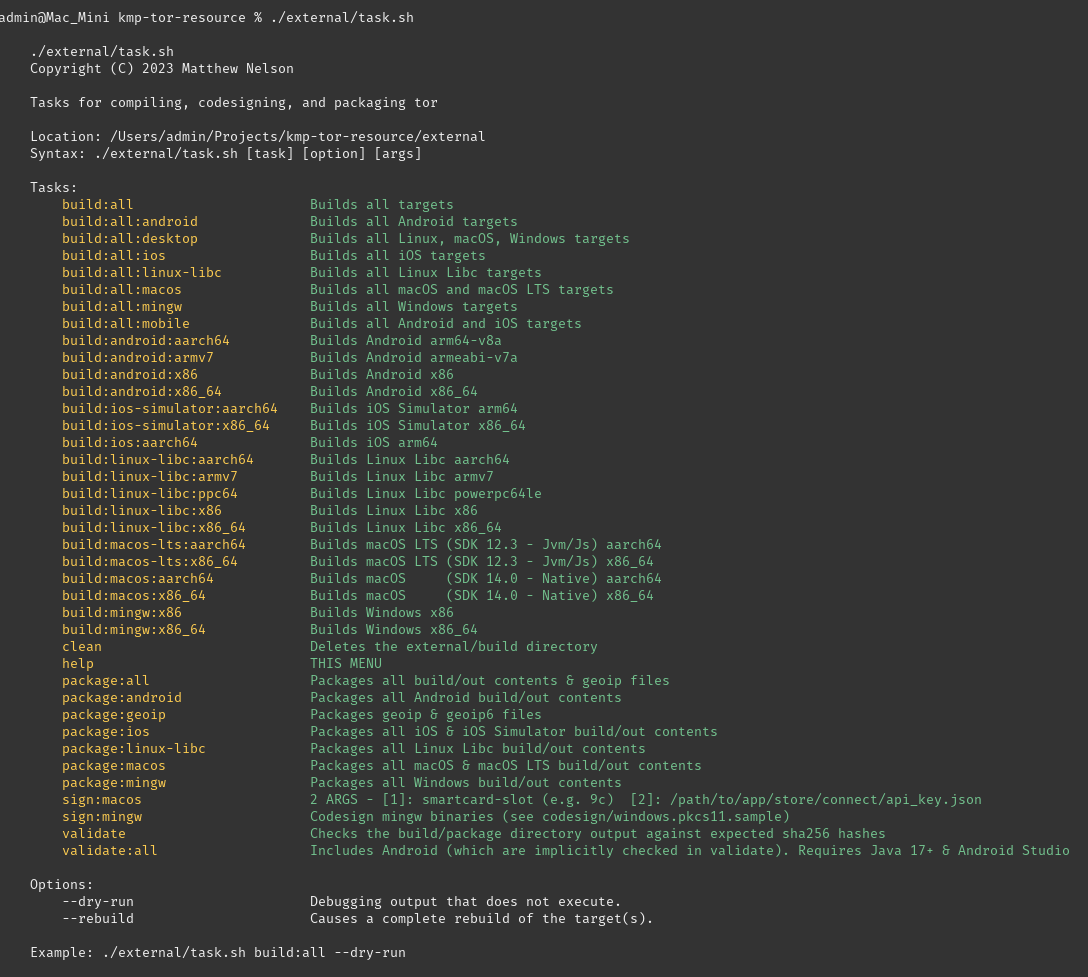
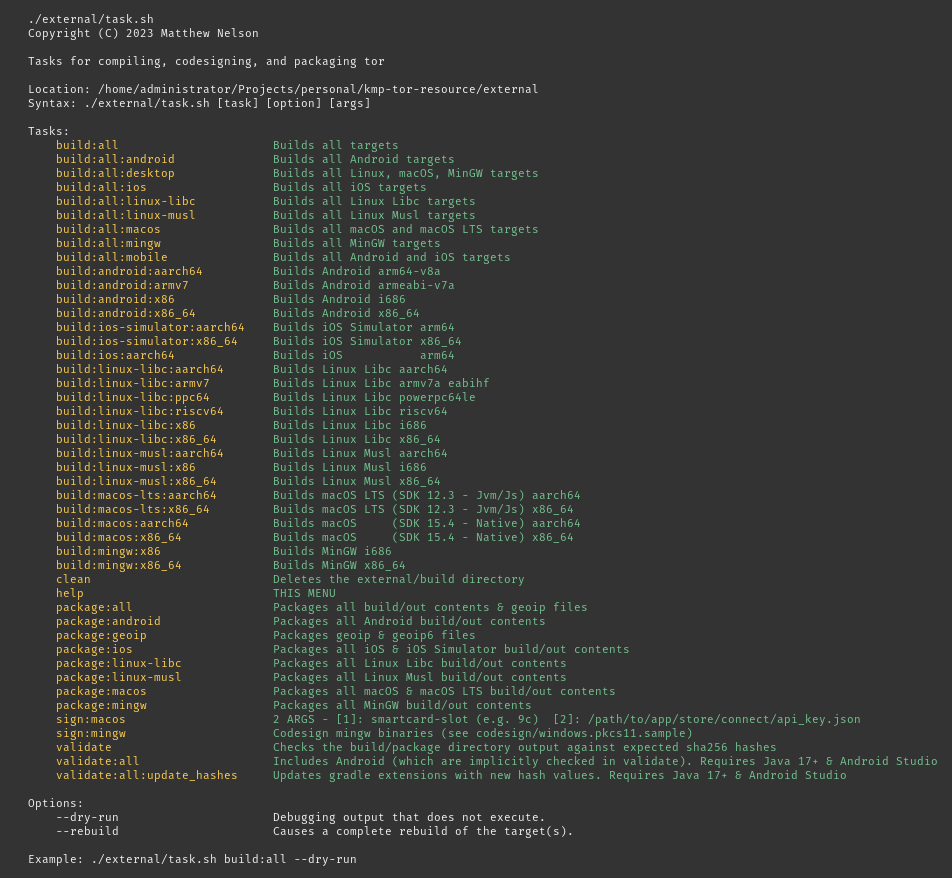
Update documentation

diff --git a/docs/DETERMINISTIC_BUILDS.md b/docs/DETERMINISTIC_BUILDS.md
@@ -10,10 +10,10 @@ script. The expected Sha256 hashes are provided by gradle extensions located in 
 <!-- TAG_VERSION -->
 ```
 git clone --branch 408.17.0 --depth 1 https://github.com/05nelsonm/kmp-tor-resource.git \
-&& cd kmp-tor-resource \
-&& ./external/task.sh build:all \
-&& ./external/task.sh package:all \
-&& ./external/task.sh validate
+  && cd kmp-tor-resource \
+  && ./external/task.sh build:all \
+  && ./external/task.sh package:all \
+  && ./external/task.sh validate
 ```
 
 ### Validate Compilations
@@ -23,12 +23,12 @@ git clone --branch 408.17.0 --depth 1 https://github.com/05nelsonm/kmp-tor-resou
         - If your machine is not `x86_64`, but your docker installation supports virtualization 
           of `linux/amd64` containers, things will still work but there will be significant overhead. 
           For example, `macOS` with `M` series chipsets build fine using rosetta virtualization, but 
-          may take upwards of 6 hours compared to 20-30 minutes.
+          may take upwards of 6x longer.
     - Bash
     - Git
     - Docker
     - Java 11+
-    - Approximately 15GB of available disk space
+    - Approximately 20GB of available disk space
 
 1) Clone the repository:
    ```shell
@@ -63,10 +63,72 @@ git clone --branch 408.17.0 --depth 1 https://github.com/05nelsonm/kmp-tor-resou
    - If you have Java 17+ and Android Studio installed, you can run task `validate:all` instead 
      which will include android in its checks.
 
-If the output of the error report files is blank, all built/packaged resources matched the 
+If the output of the error report files are empty, all built/packaged resources matched the 
 expected Sha256 hash values.
 
 Any error output is pretty self-explanatory; either the file didn't exist or hashes didn't 
 match what was expected for the given platform/architecture.
+
+<details>
+    <summary>Example error output</summary>
+
+```
+resource-compilation-exec-tor/android.err:
+
+resource-compilation-exec-tor-gpl/android.err:
+
+resource-compilation-lib-tor/android.err:
+
+resource-compilation-lib-tor-gpl/android.err:
+
+resource-exec-tor/jvm.err:
+resource-exec-tor/linuxArm64.err:
+resource-exec-tor/linuxX64.err:
+resource-exec-tor/macosArm64.err:
+resource-exec-tor/macosX64.err:
+resource-exec-tor/mingwX64.err:
+
+resource-exec-tor-gpl/jvm.err:
+resource-exec-tor-gpl/linuxArm64.err:
+resource-exec-tor-gpl/linuxX64.err:
+resource-exec-tor-gpl/macosArm64.err:
+resource-exec-tor-gpl/macosX64.err:
+resource-exec-tor-gpl/mingwX64.err:
+
+resource-frameworks-gradle-plugin/jvm.err:
+
+resource-geoip/jvm-geoip.err:
+ERROR[ Resource does not exist: external/build/package/resource-geoip/src/jvmMain/resources/io/matthewnelson/kmp/tor/resource/geoip/geoip.gz ]
+resource-geoip/native.err:
+
+resource-lib-tor/iosSimulatorArm64.err:
+resource-lib-tor/iosX64.err:
+resource-lib-tor/jvm.err:
+ERROR[ Lib hash[1f0415656954b34d1e8eebbaec447b239572b5f9168caff2e46e353e19c58260] did not match expected[testing56954b34d1e8eebbaec447b239572b5f9168caff2e46e353e19c58260]: external/build/package/resource-lib-tor/src/jvmMain/resources/io/matthewnelson/kmp/tor/resource/lib/tor/native/macos/aarch64/libtor.dylib.gz ]
+resource-lib-tor/linuxArm64.err:
+resource-lib-tor/linuxX64.err:
+resource-lib-tor/macosArm64.err:
+resource-lib-tor/macosX64.err:
+resource-lib-tor/mingwX64.err:
+
+resource-lib-tor-gpl/iosSimulatorArm64.err:
+resource-lib-tor-gpl/iosX64.err:
+resource-lib-tor-gpl/jvm.err:
+resource-lib-tor-gpl/linuxArm64.err:
+resource-lib-tor-gpl/linuxX64.err:
+resource-lib-tor-gpl/macosArm64.err:
+resource-lib-tor-gpl/macosX64.err:
+resource-lib-tor-gpl/mingwX64.err:
+
+resource-noexec-tor/jvm.err:
+
+resource-noexec-tor-gpl/jvm.err:
+
+
+    Task 'validate' completed in 0m38.531s
+
+```
+
+</details>
 
 That's it.

diff --git a/README.md b/README.md
@@ -15,8 +15,6 @@
 ![badge-platform-macos]
 ![badge-platform-windows]
 ![badge-support-android-native]
-![badge-support-apple-silicon]
-![badge-support-js-ir]
 ![badge-support-linux-arm]
 
 This project is focused on the packaging and distribution of pre-compiled `tor` resources 
@@ -53,7 +51,7 @@ More details about how things are compiled can be found [HERE](docs/COMPILATION_
 | macOS           | ✔       |        |         |         |     | ✔      |
 | Linux (android) | ✔       | ✔      |         |         | ✔   | ✔      |
 | Linux (libc)    | ✔       | ✔      | ✔       | ✔       | ✔   | ✔      |
-| Linux (musl)    |         |        |         |         |     |        |
+| Linux (musl)    | ✔       |        |         |         | ✔   | ✔      |
 | FreeBSD         |         |        |         |         |     |        |
 
 ### Types (`exec` & `noexec`)
@@ -290,8 +288,8 @@ See [kmp-tor-samples][url-kmp-tor-samples] for more details.
 <!-- TAG_DEPENDENCIES -->
 [badge-androidx-startup]: https://img.shields.io/badge/androidx.startup-1.1.1-6EDB8D.svg?logo=android
 [badge-kotlin]: https://img.shields.io/badge/kotlin-2.1.21-blue.svg?logo=kotlin
-[badge-build-env]: https://img.shields.io/badge/build--env-0.3.0-blue.svg?logo=docker
-[badge-kmp-tor-common]: https://img.shields.io/badge/kmp--tor--common-2.3.1-blue.svg?style=flat
+[badge-build-env]: https://img.shields.io/badge/build--env-0.4.1-blue.svg?logo=docker
+[badge-kmp-tor-common]: https://img.shields.io/badge/kmp--tor--common-2.3.2--SNAPSHOT-blue.svg?style=flat
 
 <!-- TAG_PLATFORMS -->
 [badge-platform-android]: http://img.shields.io/badge/-android-6EDB8D.svg?style=flat
@@ -306,8 +304,6 @@ See [kmp-tor-samples][url-kmp-tor-samples] for more details.
 [badge-platform-wasm]: https://img.shields.io/badge/-wasm-624FE8.svg?style=flat
 [badge-platform-windows]: http://img.shields.io/badge/-windows-4D76CD.svg?style=flat
 [badge-support-android-native]: http://img.shields.io/badge/support-[AndroidNative]-6EDB8D.svg?style=flat
-[badge-support-apple-silicon]: http://img.shields.io/badge/support-[AppleSilicon]-43BBFF.svg?style=flat
-[badge-support-js-ir]: https://img.shields.io/badge/support-[js--IR]-AAC4E0.svg?style=flat
 [badge-support-linux-arm]: http://img.shields.io/badge/support-[LinuxArm]-2D3F6C.svg?style=flat
 
 [url-androidx-startup]: https://developer.android.com/jetpack/androidx/releases/startup
